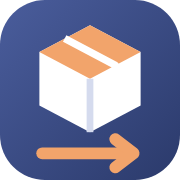
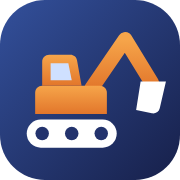
update

diff --git a/public/css/app.css b/public/css/app.css
@@ -1,7 +1,7 @@
 /* ==========================================================================
    STO Alber — design system
-   Palet diselaraskan dengan Cuci Alber: navy (identitas), oranye (aksi),
-   amber (penanda), latar gradasi hangat.
+   Palet bold diselaraskan dengan Cuci Alber: navy (identitas), oranye (aksi),
+   amber (penanda). Bidang bold diberi gradasi berlapis agar tidak monoton.
    Font : Plus Jakarta Sans (fallback ke font sistem bila offline).
    ========================================================================== */
 
@@ -15,28 +15,33 @@
   --line-soft: #eef2f7;
 
   /* identitas: navy (header Cuci Alber) */
-  --navy: #2b3a6b;
-  --navy-2: #4a5d9c;
-  --navy-soft: #edf0f8;
-  --navy-glass: linear-gradient(105deg, rgba(43, 58, 107, .93) 0%, rgba(74, 93, 156, .88) 100%);
+  --navy: #1e2a5a;
+  --navy-2: #2d4383;
+  --navy-soft: #e9ecf6;
+  /* gradasi bold */
+  --grad-navy: linear-gradient(115deg, #17204a 0%, #23336d 48%, #33509b 100%);
+  --grad-accent: linear-gradient(90deg, #e2762b 0%, #f0993c 55%, #f2c14e 100%);
+  --grad-orange: linear-gradient(135deg, #f08b3f 0%, #db6720 100%);
+  --glow-orange: radial-gradient(520px 240px at 100% 100%, rgba(226, 118, 43, .38), transparent 70%);
+  --glow-light: radial-gradient(420px 220px at 0% 0%, rgba(255, 255, 255, .10), transparent 70%);
   /* aksi: oranye (tombol Lanjut Cuci Alber) */
-  --primary: #e58b52;
-  --primary-d: #cf7440;
-  --primary-soft: #fdf1e9;
-  --accent-line: rgba(229, 139, 82, .6);
-  --teal: #2f9a8b;
-  --teal-soft: #e2f4f1;
-  --green: #2f8a66;
-  --green-soft: #e3f4ec;
-  --amber: #9a6a12;
-  --amber-soft: #fff7e2;
+  --primary: #e2762b;
+  --primary-d: #c7621b;
+  --primary-soft: #fdeee3;
+  --accent-line: #e2762b;
+  --teal: #12877a;
+  --teal-soft: #ddf3ef;
+  --green: #0f7f57;
+  --green-soft: #ddf4e8;
+  --amber: #946000;
+  --amber-soft: #fff4d4;
   --rose: #bd2d4b;
   --rose-soft: #fde7ec;
   --slate-soft: #eaeef4;
 
   --shadow-sm: 0 1px 2px rgba(15, 28, 46, .05);
-  --shadow-md: 0 14px 34px -18px rgba(43, 58, 107, .22);
-  --shadow-lg: 0 40px 90px -28px rgba(30, 40, 80, .38);
+  --shadow-md: 0 14px 34px -16px rgba(30, 42, 90, .28);
+  --shadow-lg: 0 40px 90px -24px rgba(20, 28, 60, .5);
 
   --r-sm: 8px;
   --r-md: 12px;
@@ -55,7 +60,7 @@ body {
   min-height: 100vh;
   display: flex;
   flex-direction: column;
-  background: linear-gradient(115deg, #f8eee8 0%, #f4f2f4 45%, #e9ecf4 100%);
+  background: linear-gradient(115deg, #f6e8df 0%, #f2eef0 42%, #e2e6f0 100%);
   color: var(--ink);
   font: 400 14px/1.6 var(--font);
   -webkit-font-smoothing: antialiased;
@@ -87,12 +92,17 @@ svg { flex: none; }
 .page-head {
   display: flex; align-items: center; justify-content: space-between; gap: 16px; flex-wrap: wrap;
   padding: 26px 28px; border-radius: var(--r-xl); color: #fff;
-  background: var(--navy-glass);
-  border-bottom: 3px solid var(--accent-line); box-shadow: 0 16px 36px -24px rgba(43, 58, 107, .55);
+  position: relative; overflow: hidden;
+  background: var(--glow-orange), var(--glow-light), var(--grad-navy);
+  box-shadow: var(--shadow-md);
+}
+.page-head::after {
+  content: ""; position: absolute; left: 0; right: 0; bottom: 0; height: 4px;
+  background: var(--grad-accent);
 }
 .page-head h1 { color: #fff; }
 .page-head .lead { margin-top: 6px; max-width: 62ch; color: rgba(255, 255, 255, .82); }
-.page-head .btn-primary { box-shadow: 0 8px 18px -12px rgba(0, 0, 0, .35); }
+.page-head .btn-primary { box-shadow: 0 10px 22px -12px rgba(0, 0, 0, .5); }
 .section-head { display: flex; align-items: flex-end; justify-content: space-between; gap: 16px; flex-wrap: wrap; }
 .section-head p { margin-top: 2px; }
 .footer { padding-block: 22px 28px; text-align: center; color: var(--ink-3); font-size: 12.5px; }
@@ -100,11 +110,12 @@ svg { flex: none; }
 /* ---------- Topbar ---------- */
 .topbar {
   position: sticky; top: 0; z-index: 40;
-  background: var(--navy-glass);
-  backdrop-filter: saturate(1.3) blur(12px);
-  -webkit-backdrop-filter: saturate(1.3) blur(12px);
-  border-bottom: 2px solid var(--accent-line);
-  box-shadow: 0 8px 24px -18px rgba(30, 40, 80, .5);
+  background: radial-gradient(560px 140px at 82% -40px, rgba(226, 118, 43, .26), transparent 70%), var(--grad-navy);
+  box-shadow: 0 10px 26px -16px rgba(20, 28, 60, .65);
+}
+.topbar::after {
+  content: ""; position: absolute; left: 0; right: 0; bottom: 0; height: 3px;
+  background: var(--grad-accent);
 }
 .topbar-in { height: var(--topbar-h); display: flex; align-items: center; gap: 28px; }
 .brand { display: inline-flex; align-items: center; gap: 12px; color: var(--ink); font-size: 18px; font-weight: 800; letter-spacing: -.02em; }
@@ -113,19 +124,19 @@ svg { flex: none; }
 .brand-logo { display: block; flex: none; border-radius: 11px; box-shadow: 0 6px 16px -8px rgba(30, 40, 80, .55); }
 .topbar .brand-logo { box-shadow: 0 0 0 1px rgba(255, 255, 255, .22), 0 6px 16px -8px rgba(0, 0, 0, .4); }
 .brand-name b { font-weight: 800; color: var(--primary-d); }
-.topbar .brand-name b { color: #f6b88c; }
+.topbar .brand-name b { color: #f5a65e; }
 .mainnav { display: flex; align-items: center; gap: 4px; margin-right: auto; }
 .navlink { white-space: nowrap; display: inline-flex; align-items: center; gap: 8px; height: 38px; padding: 0 14px; border-radius: 10px; color: rgba(255, 255, 255, .74); font-weight: 600; transition: background .15s, color .15s; }
 .navlink:hover { background: rgba(255, 255, 255, .1); color: #fff; }
-.navlink.is-active { background: rgba(255, 255, 255, .14); color: #fff; box-shadow: inset 0 -2px 0 var(--accent-line); }
+.navlink.is-active { background: linear-gradient(180deg, rgba(255, 255, 255, .2), rgba(255, 255, 255, .08)); color: #fff; box-shadow: inset 0 -2px 0 #f0993c, inset 0 1px 0 rgba(255, 255, 255, .15); }
 .usermenu { position: relative; }
 .usermenu summary { list-style: none; display: inline-flex; align-items: center; gap: 10px; height: 42px; padding: 0 12px 0 5px; border: 1px solid rgba(255, 255, 255, .22); border-radius: 999px; background: rgba(255, 255, 255, .08); color: #fff; cursor: pointer; font-weight: 600; transition: border-color .15s, box-shadow .15s; }
 .usermenu summary::-webkit-details-marker { display: none; }
 .usermenu summary:hover { border-color: rgba(255, 255, 255, .45); }
-.usermenu[open] summary { border-color: var(--accent-line); box-shadow: 0 0 0 3px rgba(229, 139, 82, .22); }
+.usermenu[open] summary { border-color: var(--primary); box-shadow: 0 0 0 3px rgba(226, 118, 43, .35); }
 .usermenu summary .chev { color: rgba(255, 255, 255, .7); transition: transform .15s; }
 .usermenu[open] summary .chev { transform: rotate(180deg); }
-.avatar { display: grid; place-items: center; width: 32px; height: 32px; border-radius: 50%; background: linear-gradient(135deg, #e99a68, #f2b98f); color: #fff; font-size: 13px; font-weight: 800; }
+.avatar { display: grid; place-items: center; width: 32px; height: 32px; border-radius: 50%; background: var(--grad-orange); color: #fff; font-size: 13px; font-weight: 800; }
 .avatar-lg { width: 64px; height: 64px; font-size: 24px; }
 .menu-pop { position: absolute; right: 0; top: calc(100% + 8px); min-width: 220px; padding: 6px; background: var(--surface); border: 1px solid var(--line); border-radius: var(--r-md); box-shadow: var(--shadow-md); z-index: 50; }
 .menu-pop .who { padding: 10px 12px 8px; border-bottom: 1px solid var(--line-soft); margin-bottom: 6px; }
@@ -147,10 +158,11 @@ svg { flex: none; }
 .btn:hover { background: var(--primary-d); color: #fff; }
 .btn:active { transform: translateY(1px); }
 .btn:disabled, .btn[aria-disabled="true"] { opacity: .55; cursor: not-allowed; transform: none; }
-.btn-primary { box-shadow: 0 8px 18px -12px rgba(229, 139, 82, .7); }
+.btn-primary { background: var(--grad-orange); box-shadow: 0 8px 18px -10px rgba(226, 118, 43, .85); }
+.btn-primary:hover:not(:disabled) { background: linear-gradient(135deg, #e47a30 0%, #c4581a 100%); }
 .btn-secondary { background: var(--surface); color: var(--ink); border-color: var(--line); box-shadow: var(--shadow-sm); }
 .btn-secondary:hover { background: #fbfbfd; color: var(--navy-2); border-color: #c7cee2; }
-.btn-navy { background: var(--navy-2); }
+.btn-navy { background: linear-gradient(135deg, var(--navy-2), var(--navy)); }
 .btn-navy:hover { background: var(--navy); }
 .btn-ghost { background: transparent; color: var(--ink-2); }
 .btn-ghost:hover { background: var(--slate-soft); color: var(--ink); }
@@ -220,7 +232,7 @@ fieldset { border: 0; margin: 0; padding: 0; min-width: 0; }
 .dropzone:hover { border-color: var(--primary); background: #fff8f2; }
 .dropzone:focus-within { border-color: var(--primary); box-shadow: 0 0 0 4px var(--primary-soft); }
 .dropzone.is-drag { border-color: var(--primary); border-style: solid; background: var(--primary-soft); }
-.dz-icon { display: grid; place-items: center; width: 64px; height: 64px; margin-bottom: 8px; border-radius: 18px; color: #fff; background: linear-gradient(135deg, var(--navy-2), #7083bd); box-shadow: 0 14px 28px -14px rgba(43, 58, 107, .55); transition: transform .2s; }
+.dz-icon { display: grid; place-items: center; width: 64px; height: 64px; margin-bottom: 8px; border-radius: 18px; color: #fff; background: var(--grad-navy); box-shadow: 0 14px 28px -12px rgba(30, 42, 90, .7); transition: transform .2s; }
 .dropzone:hover .dz-icon, .dropzone.is-drag .dz-icon { transform: translateY(-3px); }
 .dz-title { font-size: 17px; font-weight: 750; color: var(--ink); max-width: 100%; overflow-wrap: anywhere; }
 .dz-hint { color: var(--ink-3); font-size: 13px; }
@@ -321,11 +333,11 @@ fieldset { border: 0; margin: 0; padding: 0; min-width: 0; }
 .alert p, .alert ul { color: inherit; }
 .alert ul { margin-top: 4px; padding-left: 18px; list-style: disc; }
 .alert-info { background: var(--navy-soft); border-color: #d3d9ec; color: #25366f; }
-.alert-danger { background: #fdeff2; border-color: #f4cfd8; color: #8f2a40; }
-.alert-warn { background: var(--amber-soft); border-color: #f3e2b6; color: #7d560e; }
+.alert-danger { background: var(--rose-soft); border-color: #f6c6d1; color: #8f1d36; }
+.alert-warn { background: var(--amber-soft); border-color: #f5dba0; color: #7d4a05; }
 .alert-success { background: var(--green-soft); border-color: #bfe8d3; color: #0b5e41; }
 .toast-stack { position: fixed; top: calc(var(--topbar-h) + 14px); right: 20px; z-index: 60; display: grid; gap: 10px; width: min(380px, calc(100vw - 32px)); }
-.toast { display: flex; align-items: center; gap: 12px; padding: 12px 8px 12px 16px; background: rgba(43, 58, 107, .96); border-left: 4px solid var(--accent-line); color: #fff; border-radius: var(--r-md); box-shadow: var(--shadow-md); animation: toast-in .25s ease-out; }
+.toast { display: flex; align-items: center; gap: 12px; padding: 12px 8px 12px 16px; background: var(--grad-navy); border-left: 4px solid #f0993c; color: #fff; border-radius: var(--r-md); box-shadow: var(--shadow-md); animation: toast-in .25s ease-out; }
 .toast p { flex: 1; color: #fff; }
 .toast > .icon { color: #5fe0b4; }
 .toast .icon-btn { color: #aebbd0; }
@@ -345,12 +357,12 @@ fieldset { border: 0; margin: 0; padding: 0; min-width: 0; }
 
 /* ---------- Modal (dialog) ---------- */
 .modal {
-  display: none; flex-direction: column; padding: 0; border: 0; border-top: 3px solid var(--accent-line); color: var(--ink);
+  display: none; flex-direction: column; padding: 0; border: 0; border-top: 4px solid var(--primary); color: var(--ink);
   width: min(1180px, calc(100vw - 32px)); max-width: none; max-height: calc(100dvh - 32px); margin: auto;
   background: var(--surface); border-radius: var(--r-xl); box-shadow: var(--shadow-lg); overflow: hidden;
 }
 .modal[open] { display: flex; animation: modal-in .22s cubic-bezier(.2, .8, .2, 1); }
-.modal::backdrop { background: rgba(43, 58, 107, .38); backdrop-filter: blur(4px); -webkit-backdrop-filter: blur(4px); animation: fade-in .2s ease-out; }
+.modal::backdrop { background: rgba(22, 30, 64, .55); backdrop-filter: blur(4px); -webkit-backdrop-filter: blur(4px); animation: fade-in .2s ease-out; }
 .modal:focus { outline: 0; }
 .modal-sm { width: min(460px, calc(100vw - 32px)); }
 .modal-head { display: flex; align-items: center; gap: 14px; padding: 20px 24px; border-bottom: 1px solid var(--line); }
@@ -397,8 +409,8 @@ fieldset { border: 0; margin: 0; padding: 0; min-width: 0; }
 .bar-col { flex: 1; display: flex; flex-direction: column; align-items: center; gap: 6px; min-width: 0; }
 .bar-val { font-size: 12.5px; font-weight: 700; color: var(--ink-2); font-variant-numeric: tabular-nums; }
 .bar-track { flex: 1; width: 100%; display: flex; align-items: flex-end; justify-content: center; padding: 0 4px; border-radius: 10px; background: #f4f5f9; }
-.bar { width: 100%; max-width: 44px; border-radius: 8px 8px 4px 4px; background: linear-gradient(180deg, #7b8dc4, #b7c2e2); }
-.bar-col.is-today .bar { background: linear-gradient(180deg, #eb9c69, #f6c8a6); }
+.bar { width: 100%; max-width: 44px; border-radius: 8px 8px 4px 4px; background: linear-gradient(180deg, #3b55a0 0%, #23336d 100%); }
+.bar-col.is-today .bar { background: linear-gradient(180deg, #f2c14e 0%, #e2762b 100%); }
 .bar-col.is-zero .bar { background: #dde5f0; }
 .bar-lbl { font-size: 11.5px; color: var(--ink-3); white-space: nowrap; }
 .recent-list { margin: -6px -10px 0; }
@@ -513,8 +525,8 @@ fieldset { border: 0; margin: 0; padding: 0; min-width: 0; }
 .auth-form .btn { margin-top: 24px; }
 .auth-form .alert { margin-top: 20px; }
 .auth-copy { text-align: center; color: var(--ink-3); font-size: 12.5px; }
-.auth-panel { position: relative; overflow: hidden; display: flex; flex-direction: column; justify-content: flex-end; padding: clamp(32px, 5vw, 64px); color: #fff; background: linear-gradient(150deg, #33447a 0%, #5568a6 100%); border-left: 3px solid var(--accent-line); }
-.auth-panel::before { content: ""; position: absolute; inset: 0; background: radial-gradient(520px 320px at 85% 8%, rgba(255, 255, 255, .16), transparent 70%), radial-gradient(460px 320px at 0% 100%, rgba(229, 139, 82, .22), transparent 70%); }
+.auth-panel { position: relative; overflow: hidden; display: flex; flex-direction: column; justify-content: flex-end; padding: clamp(32px, 5vw, 64px); color: #fff; background: linear-gradient(160deg, #17204a 0%, #23336d 50%, #33509b 100%); border-left: 4px solid var(--primary); border-image: linear-gradient(180deg, #f2c14e, #e2762b) 1; }
+.auth-panel::before { content: ""; position: absolute; inset: 0; background: radial-gradient(520px 320px at 85% 8%, rgba(255, 255, 255, .14), transparent 70%), radial-gradient(520px 360px at 0% 100%, rgba(226, 118, 43, .38), transparent 70%); }
 .auth-panel > * { position: relative; }
 .auth-art { position: absolute; top: 9%; left: 50%; width: min(78%, 480px); transform: translateX(-50%); }
 .auth-panel h2 { font-size: clamp(28px, 3.2vw, 40px); line-height: 1.15; font-weight: 800; letter-spacing: -.02em; }
@@ -522,9 +534,10 @@ fieldset { border: 0; margin: 0; padding: 0; min-width: 0; }
 
 /* ---------- Halaman error ---------- */
 .error-wrap { flex: 1; display: grid; place-items: center; padding: 32px 20px; }
-.error-card { width: min(480px, 100%); text-align: center; padding: 40px 32px; border-top: 3px solid var(--accent-line); }
+.error-card { position: relative; overflow: hidden; width: min(480px, 100%); text-align: center; padding: 40px 32px; }
+.error-card::before { content: ""; position: absolute; left: 0; right: 0; top: 0; height: 4px; background: var(--grad-accent); }
 .error-card .brand { margin-bottom: 28px; }
-.error-code { font-size: 72px; line-height: 1; font-weight: 800; letter-spacing: -.04em; background: linear-gradient(135deg, var(--navy-2), #8395cc); -webkit-background-clip: text; background-clip: text; color: transparent; }
+.error-code { font-size: 72px; line-height: 1; font-weight: 800; letter-spacing: -.04em; background: linear-gradient(135deg, #17204a, #33509b); -webkit-background-clip: text; background-clip: text; color: transparent; }
 .error-card h2 { margin-top: 14px; font-size: 20px; }
 .error-card p { margin: 8px 0 26px; }
 
@@ -625,3 +638,12 @@ fieldset { border: 0; margin: 0; padding: 0; min-width: 0; }
   .container { max-width: none; padding: 0; }
   .card, .table-card { box-shadow: none; }
 }
+
+/* ---------- Aksen gradasi kartu statistik ---------- */
+.stat { position: relative; overflow: hidden; }
+.stat::before { content: ""; position: absolute; left: 0; right: 0; top: 0; height: 3px; background: var(--tone-grad, var(--grad-navy)); }
+.stat .chip-icon { background: var(--tone-grad, var(--grad-navy)); color: #fff; box-shadow: 0 8px 16px -10px rgba(20, 28, 60, .6); }
+.stat.tone-blue { --tone-grad: linear-gradient(135deg, #3b55a0, #1e2a5a); }
+.stat.tone-orange { --tone-grad: var(--grad-orange); }
+.stat.tone-amber { --tone-grad: linear-gradient(135deg, #f2c14e, #e2902b); }
+.stat.tone-green { --tone-grad: linear-gradient(135deg, #2bb07f, #0f7f57); }

diff --git a/resources/views/components/logo.blade.php b/resources/views/components/logo.blade.php
@@ -1,21 +1,34 @@
 {{--
-    Logo STO Alber: peti barang (stok) + panah (transport) di atas kotak navy.
-    Pakai: <x-logo :size="38" />  — salinan berkas yang sama ada di public/favicon.svg.
+    Logo STO Alber: ekskavator (alat berat) di atas kotak navy.
+    Pakai: <x-logo :size="40" />  — salinan berkas yang sama ada di public/favicon.svg.
 --}}
 @props(['size' => 38])
 @php $gid = 'sto-logo-'.\Illuminate\Support\Str::random(6); @endphp
 <svg {{ $attributes->merge(['class' => 'logo-mark']) }} width="{{ $size }}" height="{{ $size }}" viewBox="0 0 64 64" role="img" aria-hidden="true" focusable="false">
-    <defs>
-        <linearGradient id="{{ $gid }}" x1="0" y1="0" x2="1" y2="1">
-            <stop offset="0" stop-color="#4a5d9c"/>
-            <stop offset="1" stop-color="#2b3a6b"/>
-        </linearGradient>
-    </defs>
-    <rect width="64" height="64" rx="16" fill="url(#{{ $gid }})"/>
-    <path d="M32 9 50 18.5v19L32 47 14 37.5v-19z" fill="#fff"/>
-    <path d="M32 9 50 18.5 32 28 14 18.5z" fill="#f2a46b"/>
-    <path d="M32 28v19" stroke="#d5dbee" stroke-width="2.4"/>
-    <path d="M23 13.7 41 23.2v6.6" fill="none" stroke="#fff" stroke-width="2.6" stroke-linejoin="round"/>
-    <path d="M15 54.5h30" stroke="#f2a46b" stroke-width="4.2" stroke-linecap="round"/>
-    <path d="M41 49.5 47.5 54.5 41 59.5" fill="none" stroke="#f2a46b" stroke-width="4.2" stroke-linecap="round" stroke-linejoin="round"/>
+  <defs>
+    <linearGradient id="{{ $gid }}-bg" x1="0" y1="0" x2="1" y2="1">
+      <stop offset="0" stop-color="#33509b"/>
+      <stop offset="1" stop-color="#17204a"/>
+    </linearGradient>
+    <linearGradient id="{{ $gid }}-or" x1="0" y1="0" x2="0" y2="1">
+      <stop offset="0" stop-color="#f6a54a"/>
+      <stop offset="1" stop-color="#e2762b"/>
+    </linearGradient>
+  </defs>
+  <rect width="64" height="64" rx="16" fill="url(#{{ $gid }}-bg)"/>
+  <g transform="translate(2.5 -1.5)">
+  <!-- lengan (boom + stick) -->
+  <path d="M30 33 42 15.5 51.5 31" fill="none" stroke="url(#{{ $gid }}-or)" stroke-width="5.2" stroke-linecap="round" stroke-linejoin="round"/>
+  <!-- bucket -->
+  <path d="M47.5 30.5h9l-2.2 9.5c-.3 1.3-1.5 2-2.8 1.8l-5.6-1.2z" fill="#fff"/>
+  <!-- bodi dan kabin -->
+  <path d="M10 34.5c0-1.4 1.1-2.5 2.5-2.5H33c1.4 0 2.5 1.1 2.5 2.5V42H10z" fill="url(#{{ $gid }}-or)"/>
+  <path d="M12.5 32V23.5c0-1.4 1.1-2.5 2.5-2.5h7.5c1.2 0 2.2.8 2.4 2l1.6 9z" fill="url(#{{ $gid }}-or)"/>
+  <path d="M15.5 24h6.3l1.2 6h-7.5z" fill="#cfe0ff"/>
+  <!-- roda rantai -->
+  <rect x="7" y="44" width="32" height="10" rx="5" fill="#fff"/>
+  <circle cx="12.5" cy="49" r="2.4" fill="#23336d"/>
+  <circle cx="23" cy="49" r="2.4" fill="#23336d"/>
+  <circle cx="33.5" cy="49" r="2.4" fill="#23336d"/>
+  </g>
 </svg>

diff --git a/resources/views/dashboard.blade.php b/resources/views/dashboard.blade.php
@@ -48,11 +48,11 @@
 <div class="grid-2">
     <section class="card">
         <div class="card-head"><div><h2>Jenis Kegiatan</h2><p>Perbandingan STO bongkar dan muat.</p></div></div>
-        @include('components.donut', ['value' => $bongkar, 'total' => $total, 'label' => 'Bongkar', 'other' => 'Muat', 'color' => '#5b6ea9', 'rest' => '#62b3a7'])
+        @include('components.donut', ['value' => $bongkar, 'total' => $total, 'label' => 'Bongkar', 'other' => 'Muat', 'color' => '#2d4383', 'rest' => '#12877a'])
     </section>
     <section class="card">
         <div class="card-head"><div><h2>Kelengkapan SOJ &amp; MMJ</h2><p>STO yang SOJ dan MMJ-nya sudah terisi.</p></div></div>
-        @include('components.donut', ['value' => $complete, 'total' => $total, 'label' => 'Lengkap', 'other' => 'Belum lengkap', 'color' => '#4fa583', 'rest' => '#f4d58c'])
+        @include('components.donut', ['value' => $complete, 'total' => $total, 'label' => 'Lengkap', 'other' => 'Belum lengkap', 'color' => '#0f7f57', 'rest' => '#f2c14e'])
     </section>
 </div>
 

diff --git a/resources/views/auth/login.blade.php b/resources/views/auth/login.blade.php
@@ -71,7 +71,7 @@
             <rect x="354" y="126" width="80" height="46" rx="9" fill="#fff" opacity=".85"/>
             <rect x="310" y="76" width="80" height="46" rx="9" fill="#fff" opacity=".92"/>
             {{-- tanda dokumen --}}
-            <rect x="196" y="26" width="92" height="64" rx="12" fill="#e99a68"/>
+            <rect x="196" y="26" width="92" height="64" rx="12" fill="#e2762b"/>
             <path d="M222 48h40M222 60h40M222 72h24" stroke="#fff" stroke-width="4" stroke-linecap="round"/>
         </svg>
         <span class="auth-tag">STO Alat Berat</span>

diff --git a/resources/views/partials/assets.blade.php b/resources/views/partials/assets.blade.php
@@ -1,6 +1,6 @@
 <meta name="color-scheme" content="light">
-<link rel="icon" href="{{ asset('favicon.svg') }}?v=2" type="image/svg+xml">
-<link rel="alternate icon" href="{{ asset('favicon.ico') }}?v=2" sizes="any">
+<link rel="icon" href="{{ asset('favicon.svg') }}?v=3" type="image/svg+xml">
+<link rel="alternate icon" href="{{ asset('favicon.ico') }}?v=3" sizes="any">
 <link rel="apple-touch-icon" href="{{ asset('apple-touch-icon.png') }}">
 <meta name="theme-color" content="#33447a">
 <link rel="preconnect" href="https://fonts.googleapis.com">
